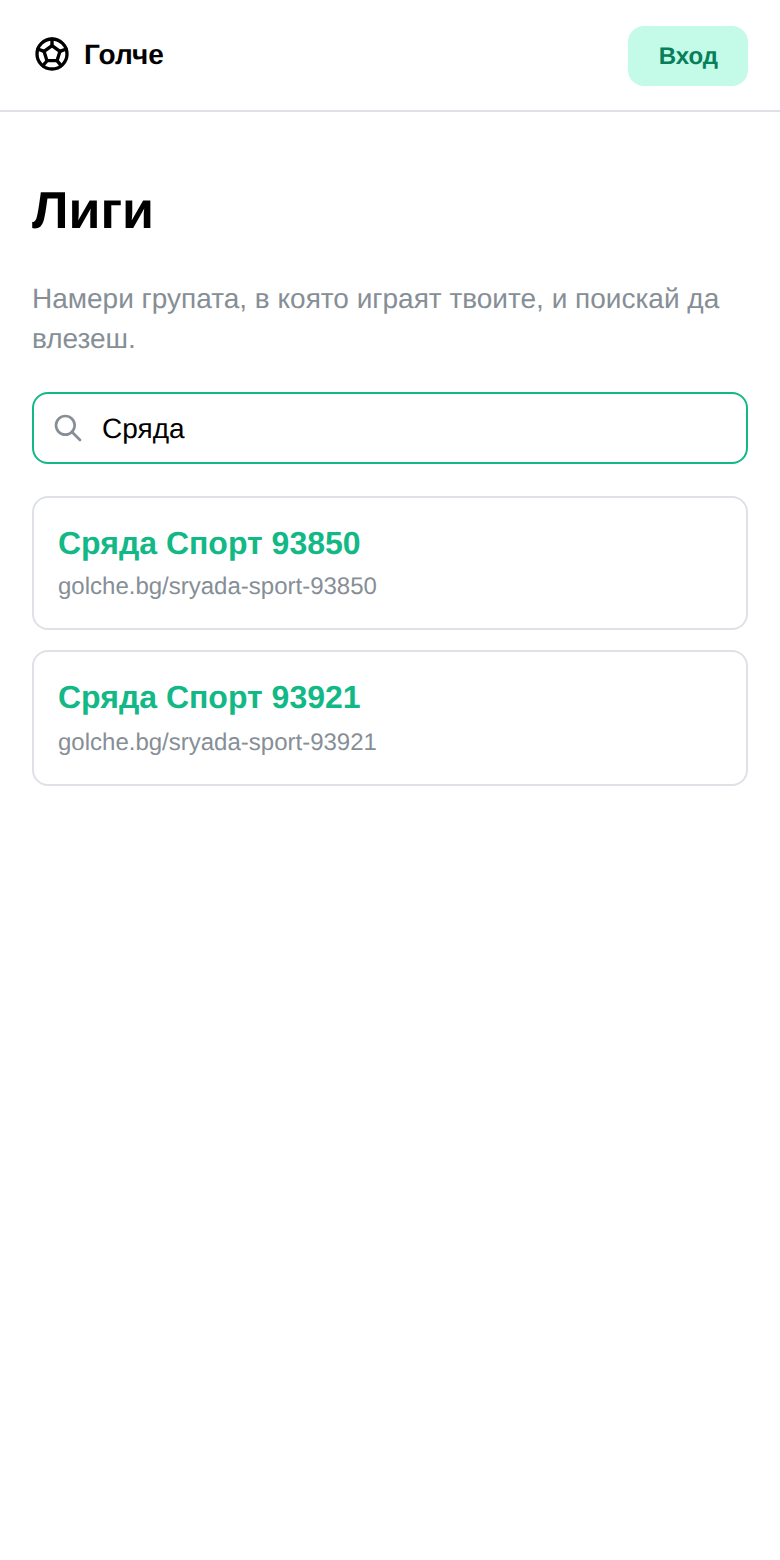
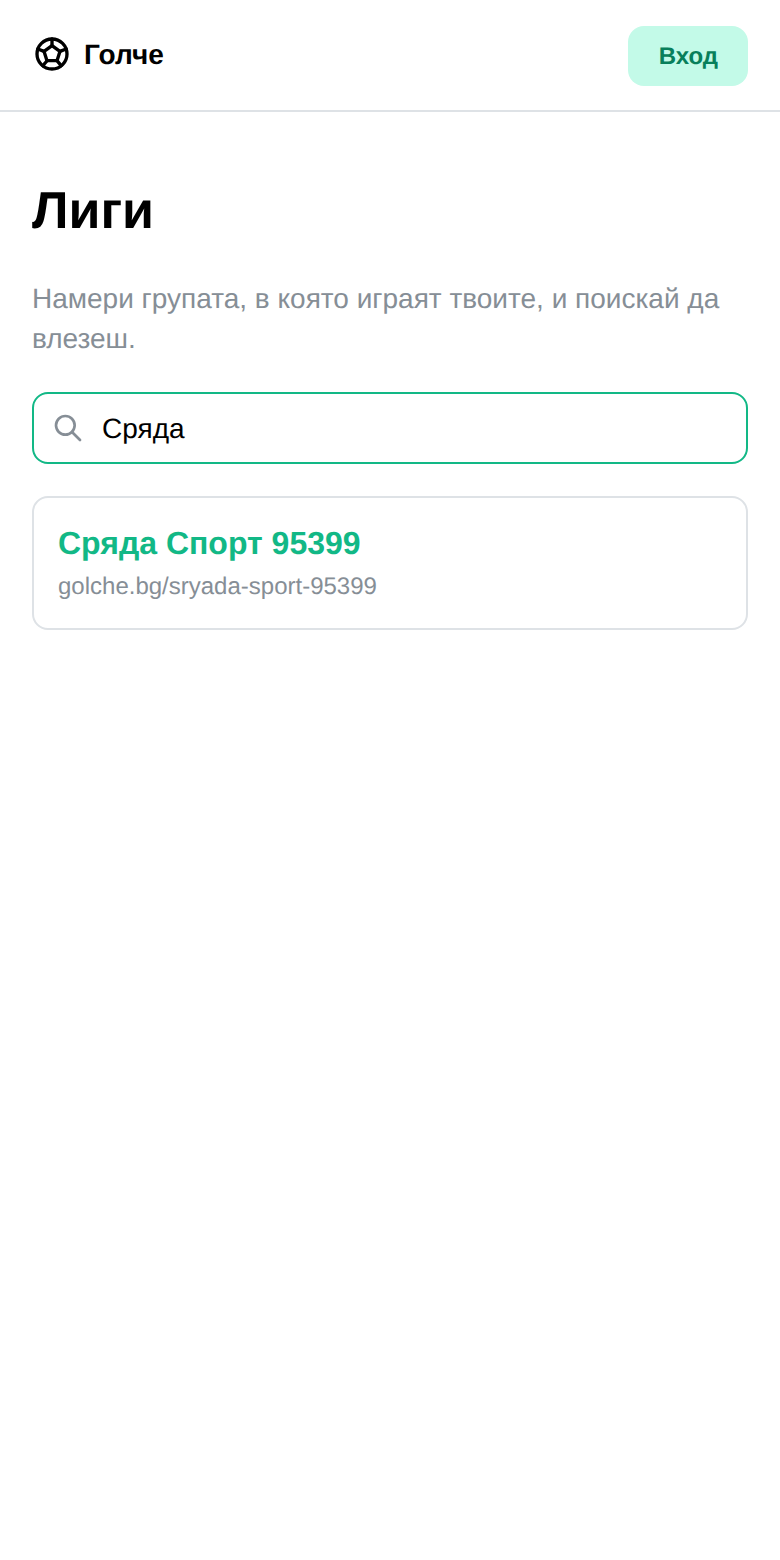
Голче: the join flow now has both doors
Re-shot after the roster picker moved onto the league page: two doors on
one card, picking yourself, both pending states, the badge, the queue and
the approval. Every person and address invented.

Changed region(s): [[0.0615, 0.4308, 0.4615, 0.4923], [0.3692, 0.3385, 0.4615, 0.4]]

diff --git a/docs/join-requests/index.html b/docs/join-requests/index.html
@@ -61,7 +61,7 @@
   <div class="hero-in">
     <p class="kicker">optimum-stars · OSJR</p>
     <h1>Хората вече могат да поискат да влязат</h1>
-    <p class="lede">Досега всеки вход в група минаваше през админ, който трябваше да знае, че някой иска, и да му знае имейла. Сега човекът казва, а админът само отсъжда.</p>
+    <p class="lede">Досега всеки вход в група минаваше през админ, който трябваше да знае, че някой иска, и да му знае имейла. Сега човекът сам казва кой е, а админът само отсъжда.</p>
     <p class="note">Всички хора и адреси тук са измислени. Екраните са истински — снимани в браузър срещу пълния стек: регистрация, нова лига, състав, натиснат бутон, одобрена заявка.</p>
   </div>
 </header>
@@ -69,7 +69,7 @@
 <div class="wrap">
 
 <h2>Какво влезе</h2>
-<p><b>Три неща, едно от друго.</b> Списък с лигите, за да те намерят. Заявка за влизане, за човек, който още не е в никой състав. И число в хедъра, което казва на админа, че го чака работа.</p>
+<p><b>Четири неща, едно от друго.</b> Списък с лигите, за да те намерят. Възможност да посочиш себе си в състава — съществуваше, но се стигаше до нея само вътре в мач. Заявка за влизане, за човек, който още не е в никой състав. И число в хедъра, което казва на админа, че го чака работа.</p>
 <div class="callout">
 <p><b>Причината за третото.</b> Заявките „това съм аз“ работят от седмици. Никой не ги ползваше — единственият начин да разбереш, че някой е поискал, беше да отвориш „Играчи“ напосоки. Затова изглеждаше, че функцията липсва. Опашка, за която не ти казват, е опашка, която никой не изпразва.</p>
 </div>
@@ -81,36 +81,51 @@
 </figure>
 
 <figure>
-  <h3>2. Искаш да влезеш</h3>
-  <p>Влязъл си в профила си, отваряш групата, натискаш. Бутонът го няма за човек, който вече играе там, нито за админа, нито за неразпознат посетител.</p>
-  <div class="shot"><img src="02-join-offer.png" alt="Страницата на лигата с бутон „Искам да вляза“"></div>
-</figure>
-
-<figure>
-  <h3>3. Чакаш</h3>
-  <p>Заявката не ти дава нищо — нито глас, нито място в класирането. Само ред в таблица, който чака админ. Може и да я оттеглиш.</p>
-  <div class="shot"><img src="03-pending.png" alt="„Заявката ти чака одобрение от админ“ с бутон Откажи"></div>
-</figure>
-
-<figure>
-  <h3>4. Админът разбира — без да отваря нищо</h3>
-  <p>Оранжевото число до „АДМИН“ в хедъра. Едно число за двете опашки: и заявките за влизане, и „това съм аз“. Няма го, когато няма работа — значка, която стои винаги, е значка, която никой не гледа.</p>
-  <div class="shot"><img src="04-badge.png" alt="Хедърът с оранжева значка 2 до АДМИН"></div>
-</figure>
-
-<figure>
-  <h3>5. Отсъжда</h3>
-  <p>От „Играчи“, до заявките „това съм аз“ — едно място за гледане. Всеки ред казва кой е поискал и от кой адрес.</p>
-  <div class="callout warn">
-    <p><b>Падащото меню е най-важното нещо на екрана.</b> Половината хора, които искат да влязат, са в състава от месеци под име, което админът е написал. Ако одобриш „нов играч“, лигата остава със същия човек два пъти. Затова питаме кой е — по подразбиране нов, но списъкът е там.</p>
+  <h3>2. Две врати, една карта</h3>
+  <p>Отваряш групата и тя те пита направо. <b>Ако си в състава</b> — посочваш кой си. <b>Ако те няма</b> — искаш да влезеш. Картата я няма за човек, който вече играе там, нито за админа, нито за неразпознат посетител.</p>
+  <div class="callout">
+    <p>Първата врата съществуваше отпреди, но се стигаше до нея само вътре в страницата на конкретен мач, докато гласуваш. Човек, който гледа самата лига, нямаше как да я намери — затова питаше да влезе като нов и админът налучкваше кой е.</p>
   </div>
-  <div class="shot"><img src="05-queue.png" alt="Заявки за влизане с падащо меню „нов играч“ и бутони Приеми и Откажи"></div>
+  <div class="shot"><img src="02-two-doors.png" alt="Картата с падащо меню за състава и бутон „Искам да вляза“"></div>
 </figure>
 
 <figure>
-  <h3>6. Влязъл е</h3>
+  <h3>3. Посочваш себе си</h3>
+  <p>Ти знаеш кой си; админът не знае. Затова питаме теб.</p>
+  <div class="shot"><img src="03-picking-himself.png" alt="Отворено меню с имената от състава"></div>
+</figure>
+
+<figure>
+  <h3>4. Чакаш — и виждаш кого си посочил</h3>
+  <p>Името е изписано обратно към теб, за да видиш, че си избрал правилния човек. Може и да я оттеглиш, ако си сбъркал.</p>
+  <div class="shot"><img src="04-claim-pending.png" alt="„Заявката ти да те свържем с Момчил Драганов чака одобрение“"></div>
+</figure>
+
+<figure>
+  <h3>5. Другата врата — за нов човек</h3>
+  <p>Който го няма в състава, просто иска да влезе. Заявката не дава нищо — нито глас, нито място в класирането.</p>
+  <div class="shot"><img src="05-join-pending.png" alt="„Заявката ти чака одобрение от админ“"></div>
+</figure>
+
+<figure>
+  <h3>6. Админът разбира — без да отваря нищо</h3>
+  <p>Оранжевото число до „АДМИН“ в хедъра. Едно число за двата вида заявки. Няма го, когато няма работа — значка, която стои винаги, е значка, която никой не гледа.</p>
+  <div class="shot"><img src="06-badge.png" alt="Хедърът с оранжева значка до АДМИН"></div>
+</figure>
+
+<figure>
+  <h3>7. Отсъжда — на едно място</h3>
+  <p>„Заявки за влизане“ и „Заявки за свързване“ една под друга, на страницата „Играчи“. Всеки ред казва кой е поискал и от кой адрес.</p>
+  <div class="callout warn">
+    <p><b>Падащото меню е там за най-честия случай.</b> Половината хора, които искат да влязат, са в състава от месеци под име, което админът е написал. Ако одобриш „нов играч“, лигата остава със същия човек два пъти. Затова питаме — а когато човекът сам е посочил кой е, изобщо не се налага да избираш.</p>
+  </div>
+  <div class="shot"><img src="07-queue.png" alt="Двете опашки със заявки и бутоните за отсъждане"></div>
+</figure>
+
+<figure>
+  <h3>8. Влязъл е</h3>
   <p>Става обикновен играч в състава — не админ. Числото пада с него.</p>
-  <div class="shot"><img src="06-after-approval.png" alt="След одобрението: един ред по-малко в опашката"></div>
+  <div class="shot"><img src="08-after-approval.png" alt="След одобрението: една заявка по-малко"></div>
 </figure>
 
 <h2>Какво нарочно не влезе</h2>
@@ -124,6 +139,7 @@
 <ul>
   <li><b>Списъкът с лиги е ново публично разкритие</b> — вече всеки може да изброи имената на всички групи. Ти го избра нарочно; отбелязвам го, защото е същият клас решение като списъка с акаунти, който махнахме.</li>
   <li><b>Две опашки, два почти еднакви компонента.</b> Различават се по това, че заявката за влизане има падащо меню, а „това съм аз“ никога няма да има — вече си казва кой е. Ако се сближат пак, се слива.</li>
+  <li><b>Падащото меню в картата показва целия състав</b>, включително хора, които вече гласуват от профил. Сървърът отказва такъв избор, но човекът научава, че въпросният играч има профил. Същото беше вярно и досега на страницата на мача, така че не е ново — но си е разкритие.</li>
   <li><b>Значката пази състояние извън React.</b> Хедърът и опашката не са в роднинска връзка; малък абонамент е по-евтин от контекст през целия рутер. Но е глобално състояние и се брои за такова.</li>
 </ul>
 
